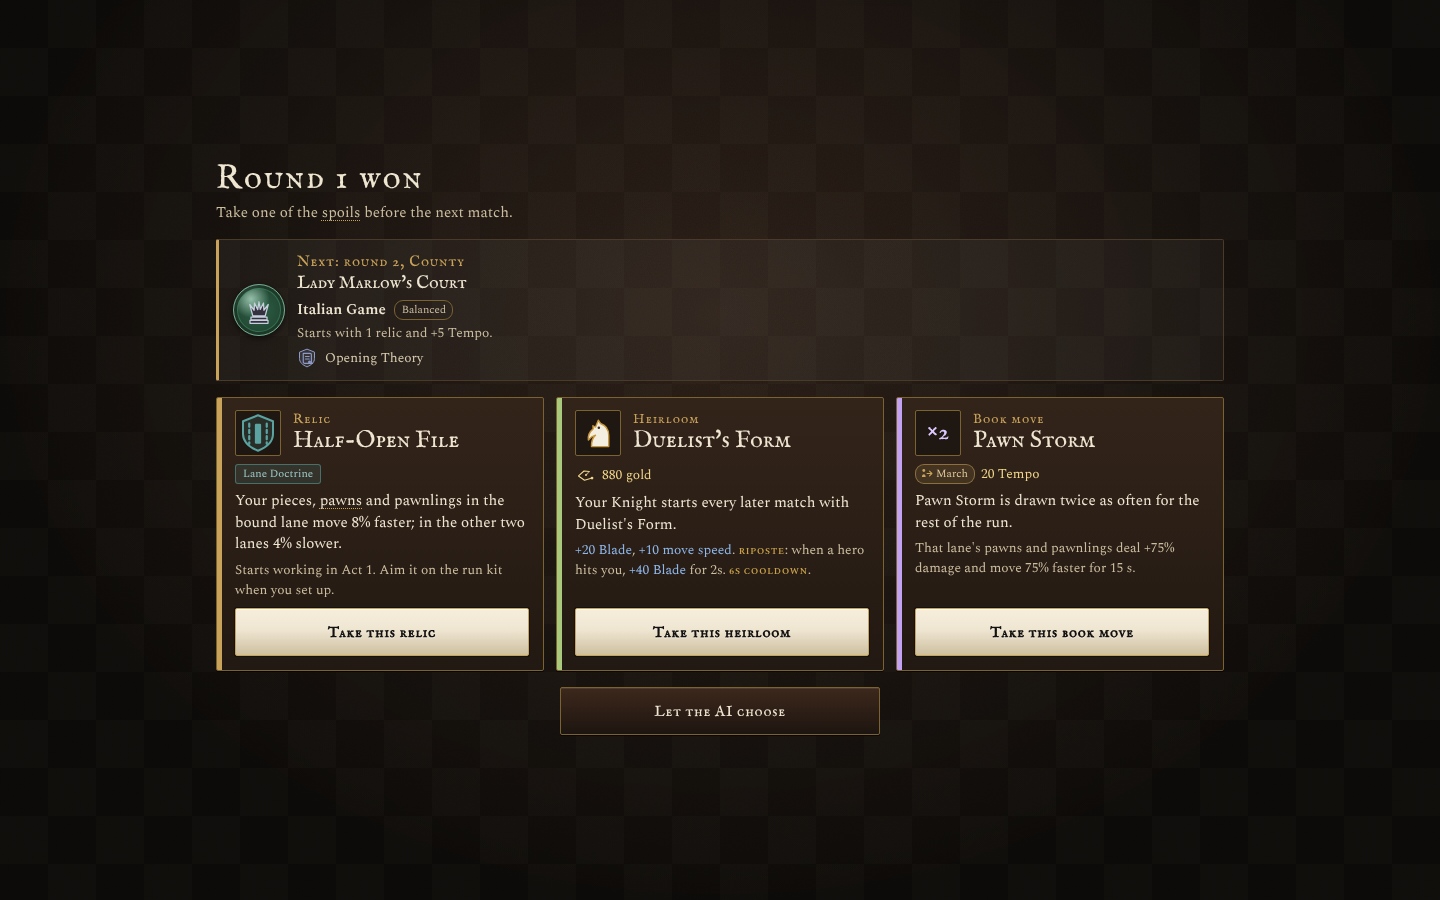
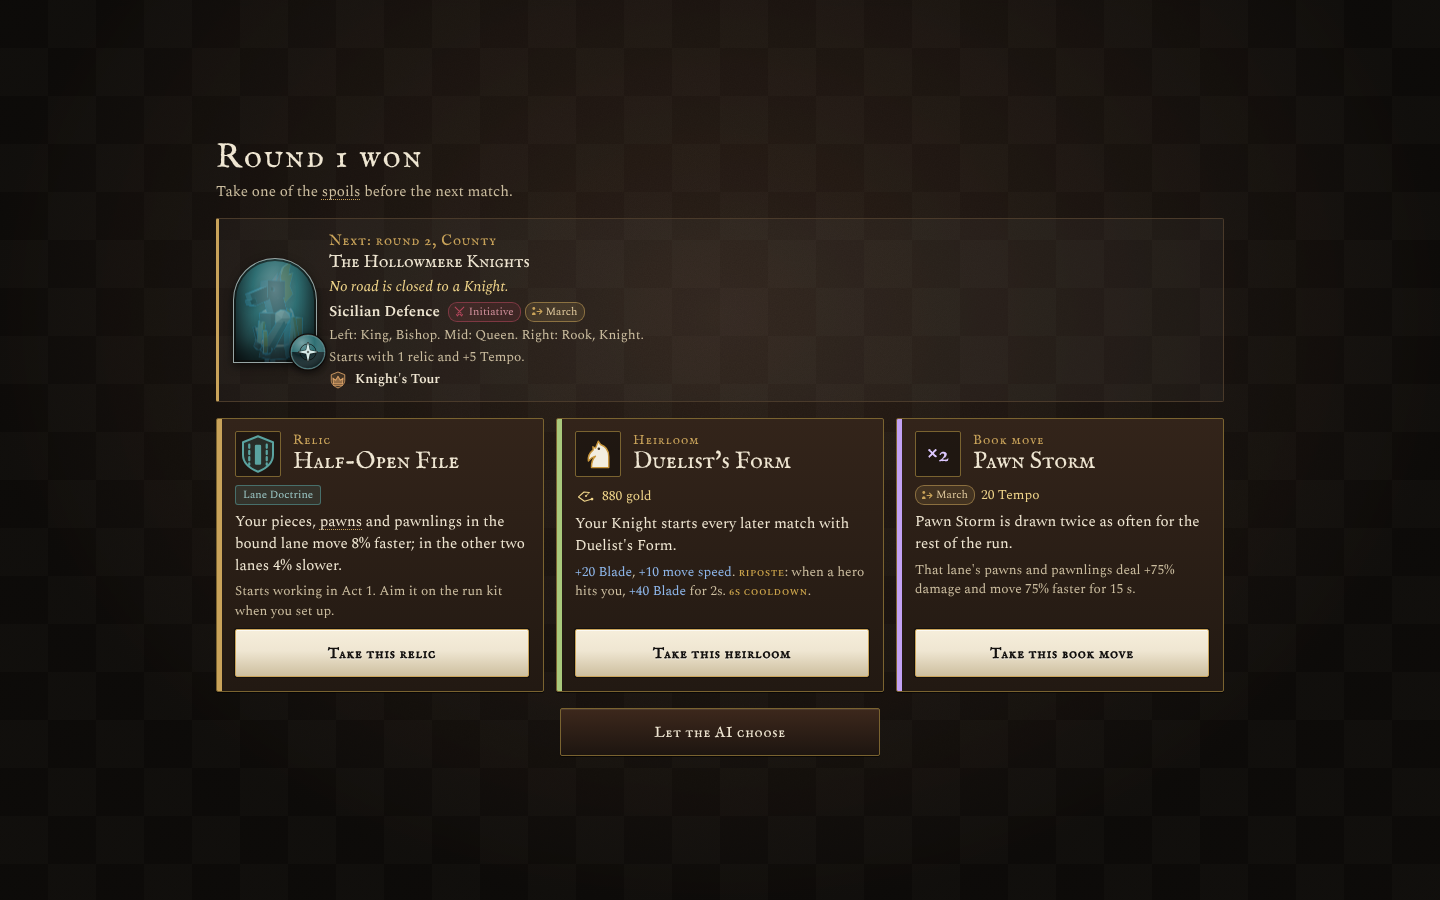
3B: screenshots, e2e fixes, changelog draft
Claude-Session: https://claude.ai/code/session_01NfjPZSFNXY97ZNu7wyb6ss

Changed region(s): [[0.125, 0.4356, 0.8438, 0.84], [0.1562, 0.1556, 0.4062, 0.4356], [0.7812, 0.4356, 0.8438, 0.4667]]

diff --git a/tests/e2e/tournament.spec.ts b/tests/e2e/tournament.spec.ts
@@ -397,8 +397,12 @@ test('Run kit choices reach the match: a carried relic is held from Act 1, the c
     const opened: string[] = [];
     const lockedNow = (): number =>
       s.match.events.filter((e) => e.type === 'fork' && e.payload.locked).length;
+    const white = (s.match.state as unknown as { teams: { A: { heroIds: number[] } } }).teams.A
+      .heroIds;
     const rank4 = (): number =>
-      s.match.events.filter((e) => e.type === 'fork' && e.payload.rank === 4).length;
+      s.match.events.filter(
+        (e) => e.type === 'fork' && e.payload.rank === 4 && white.includes(e.payload.id as number),
+      ).length;
     // until all five pieces have an archetype (the Rank 4 times depend on how the court plays)
     for (let i = 0; i < 600 && s.match.state.tick < 16000 && rank4() < 5; i++) {
       s.match.step(30);

diff --git a/docs/CHANGELOG.md b/docs/CHANGELOG.md
@@ -4,6 +4,8 @@ Newest first. One entry per change: what changed, why, and any measured effect. 
 
 ## 2026-10-17
 
+- **3B Named opponents: ten hand-made courts replace the generated stand-ins** (proposal branch; spec [SPEC-TOURNAMENT-ARMORY-2026-10-13.md](SPEC-TOURNAMENT-ARMORY-2026-10-13.md) 1B/3B, rules in [CHESS.md](CHESS.md) "Tournament run"). Why: owner-approved 3B; the four opponents of a run had only invented names. **Changed:** `content/courts.json` holds 10 courts, each with a name, motto, one-line manner, heraldic seal (two colours, a division, one emblem; drawn in code), portrait (the signature piece's own 3D figure in its archetype and pose), fixed Opening, fixed lanes and build paths, an archetype per piece (`forceStyles.B`) and one signature relic. Pools: Club (Brasswick Club, Lantern Street Circle, Old Tenby Chess Hall), County (Lady Marlow's Court, Wexmoor Gambit Society, Hollowmere Knights), Semifinal (Clockmaker's Circle, Duchess Avenell's Court), Final (The Black Queen's Court, Mirrorgate Society). A run draws one per round with the run seed (same seed, same four). The round table is untouched; the signature relic counts toward the round's relic count (at least 1, so Club courts hold only their signature), the other relics are seeded as before but never Battery (it moves pieces between lanes). Named courts keep their own Opening (no counter-Opening; a Reversed decisions row says so). `generateOpponents` stays as the fallback when `courts.json` is missing. **Screens:** Draw (seal, name, motto, Opening and schools for every round; the next round also shows the portrait, how it plays, five archetypes, lanes and signature relic; the Set up button is now sticky), versus card (portrait, seal and motto beside Black's Opening), Spoils "next opponent", Run summary (seal and motto per round). New: `src/ui/run/seals.tsx`, `renderCourtPortrait` in `src/render/portraits.ts`, `CourtSchema` and `validateCourts` (the loader refuses a court that points at nothing). **Tests:** `tests/courts.test.ts` (10 courts valid, deterministic draw, every court plays as set up with its signature relic), `tests/e2e/courts.spec.ts`, `tests/e2e/tournament.spec.ts` updated. **Measured:** `npm run baseline` identical (Exhibition untouched). Ladder probes (`--ladder --white-player --white-every 60`, partial because the machine was overloaded): [[LADDER]]. Screenshots: `docs/img/aaa-courts-*.png`.
+
 - **CLAUDE.md: owner principle and test schedule.** Always choose the most stable, long-lasting solution; test rule 5 now says what to run per kind of change, push identical merges without re-running, and run the full browser suite once a day or before a milestone instead of on every merge. Why: merges were spending 25–30 min re-testing work that had already passed.
 
 ## 2026-10-15
